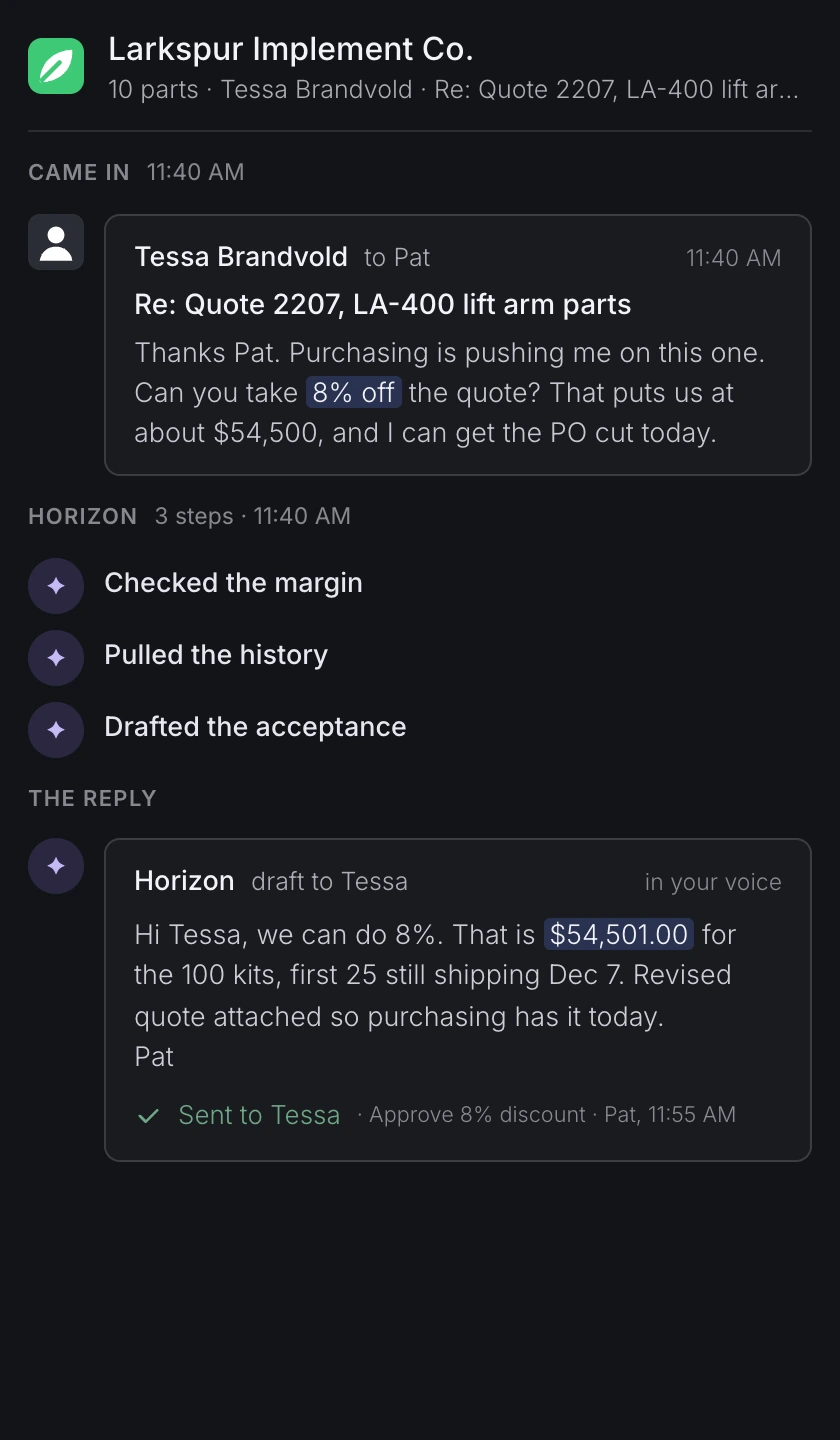
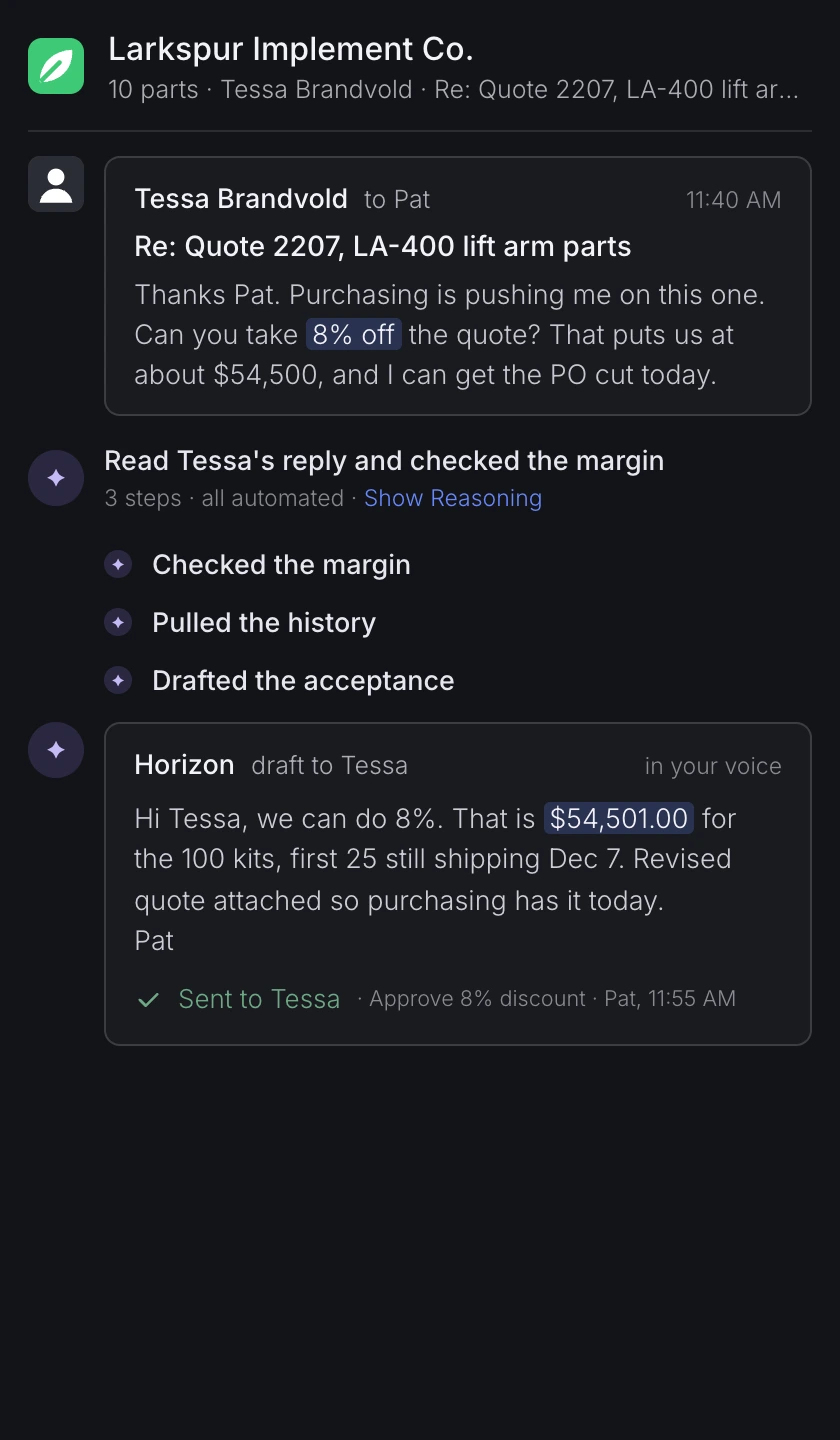
horizon task-list: the app as it is (no marketing labels), run header with Show Reasoning, the accept moment (press, Sending in 2s with Undo, Sent to)

diff --git a/horizon/task-list/index.html b/horizon/task-list/index.html
@@ -111,10 +111,20 @@ body { display: flex; justify-content: center; }
 .hz-task-list .tl-head .hzk-stages span.done { color: var(--fg); }
 .hz-task-list .tl-head .hzk-stages span.now { color: var(--link); font-weight: 600; }
 .hz-task-list .tl-body { flex: 1 1 auto; min-height: 0; display: flex; flex-direction: column; gap: 12px; overflow: hidden; }
-.hz-task-list .tl-eye { font-size: 11px; font-weight: 600; letter-spacing: .06em; text-transform: uppercase; color: var(--mute3); display: flex; align-items: center; gap: 8px; }
-.hz-task-list .tl-eye small { font-weight: 400; letter-spacing: 0; text-transform: none; font-size: 11.5px; color: var(--mute3); }
-.hz-task-list .tl-eye.live { color: var(--working); }
-.hz-task-list .tl-eye.live::after { content: ''; width: 6px; height: 6px; border-radius: 50%; background: var(--working); animation: hzk-pulse 1.2s ease-in-out infinite; }
+.hz-task-list .tl-run { display: grid; grid-template-columns: 28px minmax(0,1fr); gap: 0 10px; align-items: center; }
+.hz-task-list .tl-run .av { width: 28px; height: 28px; border-radius: 50%; display: grid; place-items: center; font-size: 12px; background: var(--spark-bg); color: var(--spark-fg); grid-row: 1 / 3; }
+.hz-task-list .tl-run b { font-size: 13.5px; font-weight: 500; color: var(--fg); }
+.hz-task-list .tl-run small { display: block; font-size: 11.5px; color: var(--mute3); }
+.hz-task-list .tl-run small a { color: var(--link); }
+.hz-task-list .tl-run.live b { color: var(--working); animation: hzk-pulse 1.2s ease-in-out infinite; }
+.hz-task-list .tl-run.live .av { animation: hzk-pulse 1.2s ease-in-out infinite; }
+.hz-task-list .tl-steps { padding-left: 38px; }
+.hz-task-list .tl-steps .hzk-step { grid-template-columns: 14px minmax(0,1fr); }
+.hz-task-list .tl-steps .hzk-step .av { width: 14px; height: 14px; font-size: 8px; margin-top: 5px; }
+.hz-task-list .hzk-send { font-size: 13px; color: var(--fg); display: flex; align-items: center; gap: 8px; margin-top: 4px; }
+.hz-task-list .hzk-send svg { width: 14px; height: 14px; fill: none; stroke: var(--working); stroke-width: 2.2; stroke-linecap: round; stroke-linejoin: round; animation: hzk-pulse 1.2s ease-in-out infinite; }
+.hz-task-list .hzk-send small { color: var(--mute3); }
+.hz-task-list .hzk-btn.small { height: 24px; padding: 0 10px; font-size: 12px; margin-left: 4px; }
 
 .hz-task-list .hzk-mail { display: grid; grid-template-columns: 28px minmax(0,1fr); gap: 10px; }
 .hz-task-list .hzk-mail .av { width: 28px; height: 28px; border-radius: 6px; overflow: hidden; background: #323335; }
@@ -219,6 +229,7 @@ body { display: flex; justify-content: center; }
   var PEOPLE = '../shared/people/';
   var SPARK = '<span class="av">✦</span>';
   var CK = '<svg viewBox="0 0 24 24"><path d="m5 12 5 5L20 7"/></svg>';
+  var CLOCK = '<svg viewBox="0 0 24 24"><circle cx="12" cy="12" r="9"/><path d="M12 7v5l3 2"/></svg>';
   var M = {
     marlin: '<svg viewBox="0 0 24 24" role="img" aria-label="Marlin Marine"><rect width="24" height="24" rx="6" fill="#3840EA"/><path fill="none" stroke="#fff" stroke-width="2" stroke-linecap="round" d="M3.5 9.5c2.1 0 2.1-2.5 4.25-2.5s2.1 2.5 4.25 2.5 2.1-2.5 4.25-2.5 2.1 2.5 4.25 2.5M3.5 16.5c2.1 0 2.1-2.5 4.25-2.5s2.1 2.5 4.25 2.5 2.1-2.5 4.25-2.5 2.1 2.5 4.25 2.5"/></svg>',
     westbrook: '<svg viewBox="0 0 24 24" role="img" aria-label="Westbrook Sensors"><rect width="24" height="24" rx="6" fill="#292932"/><circle cx="12" cy="12" r="7" fill="none" stroke="#fff" stroke-width="2"/><circle cx="12" cy="12" r="2.6" fill="#fff"/></svg>',
@@ -232,7 +243,7 @@ body { display: flex; justify-content: center; }
 
   /* ---------- the five things that came in ---------- */
   var ITEMS = [
-    { id: 'marlin', co: 'Marlin Marine', mark: M.marlin, subject: 'SO3301: can we get it sooner?', time: '7:48 AM', sentAt: '8:02 AM',
+    { id: 'marlin', runTitle: "Read the request and checked the schedule", co: 'Marlin Marine', mark: M.marlin, subject: 'SO3301: can we get it sooner?', time: '7:48 AM', sentAt: '8:02 AM',
       stage: 'so', from: 'Dev Castillo', av: photo('dev-castillo'), sub: 'SO3301: can we get it sooner?',
       body: 'Hi Pat, our boat show build moved up. Can we get <mark>SO3301 by Nov 2</mark> instead of Nov 9? Let me know what it takes.',
       steps: [['Checked the schedule', '3 of 4 lines make Nov 2 with the Saturday shift.'],
@@ -242,7 +253,7 @@ body { display: flex; justify-content: center; }
       reply: 'Dev, we can do it. Three of the four lines ship Nov 2 with a Saturday shift. The brackets are out at anodize until Nov 5, so those follow. The rush adds <mark>$980</mark>; new confirmation attached. Want me to lock it in?\nPat',
       actions: [['primary', 'Send Reply'], ['', 'Edit']],
       sentLine: 'Approve expedite fee', sentRow: 'Sales order SO3301 · ships Nov 2', sentPill: 'Ordered', sentCls: 'ordered' },
-    { id: 'westbrook', co: 'Westbrook Sensors', mark: M.westbrook, subject: 'Quote request: 118-B mounts', time: '8:15 AM', sentAt: '8:21 AM',
+    { id: 'westbrook', runTitle: "Read the RFQ and set the project up", co: 'Westbrook Sensors', mark: M.westbrook, subject: 'Quote request: 118-B mounts', time: '8:15 AM', sentAt: '8:21 AM',
       stage: 'rfq', from: 'Hana Sato', av: photo('hana-sato'), sub: 'Quote request: 118-B mounts',
       body: 'Pat, can you quote <mark>200 of the 118-B mounts</mark>? Need them by Dec 12. Thanks.',
       parts: '1 part', noatt: 'No drawing attached', readyLine: 'Asked Hana for the drawing',
@@ -252,7 +263,7 @@ body { display: flex; justify-content: center; }
       reply: 'Hi Hana, happy to. The email came through without the drawing. Can you send the <mark>118-B print</mark>, or the Rev B change if it is close to the 118-A we ran in March? I will turn it around the same day.\nPat',
       actions: [['primary', 'Send Request'], ['', 'Edit']],
       sentLine: 'Asked for drawings', sentRow: 'Waiting on Hana · the Rev B drawing', sentPill: 'Processing…', sentCls: 'processing' },
-    { id: 'kestrel', co: 'Kestrel Medical', mark: M.kestrel, subject: 'RFQ: Housing 3310, qty 50', time: '9:05 AM', sentAt: '9:14 AM',
+    { id: 'kestrel', runTitle: "Read the RFQ and priced 1 repeat part", co: 'Kestrel Medical', mark: M.kestrel, subject: 'RFQ: Housing 3310, qty 50', time: '9:05 AM', sentAt: '9:14 AM',
       stage: 'quote', from: 'Priya Natarajan', av: photo('priya-natarajan'), sub: 'RFQ: Housing 3310, qty 50',
       body: 'Hi Pat, please quote <mark>50 of the Housing 3310</mark>, same as last time. Certs as usual.',
       parts: '1 part', att: 'Housing-3310-RevC.pdf', readyLine: 'Quote 2214 ready to send',
@@ -262,7 +273,7 @@ body { display: flex; justify-content: center; }
       reply: 'Hi Priya, quote 2214 is attached: 50 pcs at <mark>$212.40</mark>, ships in 3 weeks, material certs included as always. Let me know if the quantity moves.\nPat',
       actions: [['primary', 'Send Quote'], ['', 'Review Quote']],
       sentLine: 'Quote 2214', sentRow: 'Quote 2214 sent' },
-    { id: 'harbor', co: 'Harbor Fluid Systems', mark: M.harbor, subject: 'PO 7731 for quote 2188', time: '10:20 AM', sentAt: '10:31 AM',
+    { id: 'harbor', runTitle: "Read PO 7731 against quote 2188", co: 'Harbor Fluid Systems', mark: M.harbor, subject: 'PO 7731 for quote 2188', time: '10:20 AM', sentAt: '10:31 AM',
       stage: 'po', from: 'Tom Reyes', av: photo('tom-reyes'), sub: 'PO 7731 for quote 2188',
       body: 'Pat, PO 7731 attached for the manifold plates, <mark>6 lines</mark> per your quote 2188.',
       parts: '6 parts', att: 'PO-7731.pdf',
@@ -273,7 +284,7 @@ body { display: flex; justify-content: center; }
       reply: 'Tom, thanks for the PO. One catch before I enter it: the PO calls out <mark>Rev C</mark> and we quoted Rev D (two holes moved). Can you send a revised PO, or confirm Rev D is what you want? I will hold the order so nothing runs on the wrong print.\nPat',
       actions: [['primary', 'Send Reply'], ['', 'Edit']],
       sentLine: 'Confirm the rev', sentRow: 'PO 7731 received · waiting on Tom', sentPill: 'PO Received', sentCls: 'po' },
-    { id: 'larkspur', co: 'Larkspur Implement Co.', mark: M.larkspur, subject: 'Re: Quote 2207, LA-400 lift arm parts', time: '11:40 AM', sentAt: '11:55 AM',
+    { id: 'larkspur', runTitle: "Read Tessa's reply and checked the margin", co: 'Larkspur Implement Co.', mark: M.larkspur, subject: 'Re: Quote 2207, LA-400 lift arm parts', time: '11:40 AM', sentAt: '11:55 AM',
       stage: 'quote', from: 'Tessa Brandvold', av: M.person, sub: 'Re: Quote 2207, LA-400 lift arm parts',
       body: 'Thanks Pat. Purchasing is pushing me on this one. Can you take <mark>8% off</mark> the quote? That puts us at about $54,500, and I can get the PO cut today.',
       steps: [['Checked the margin', 'At 8% off the job runs at 29.1%. Your floor is 28%, so it holds.'],
@@ -307,14 +318,14 @@ body { display: flex; justify-content: center; }
   }
   function mailHtml(it) {
     var att = it.att ? '<span class="att"><i></i>' + it.att + '</span>' : it.noatt ? '<span class="att none">' + it.noatt + '</span>' : '';
-    return '<div class="tl-eye">Came in <small>' + it.time + '</small></div><div class="hzk-mail"><span class="av">' + it.av + '</span><div class="card">' +
+    return '<div class="hzk-mail"><span class="av">' + it.av + '</span><div class="card">' +
       '<div class="hd"><b>' + it.from + '</b><span>to Pat</span><small>' + it.time + '</small></div><div class="sub">' + it.sub + '</div><div class="body">' + it.body + '</div>' + att + '</div></div>';
   }
   function stepHtml(s) { return '<div class="hzk-step">' + SPARK + '<div><div class="t">' + s[0] + '</div><div class="d">' + s[1] + '</div></div></div>'; }
   function replyHtml(it) {
     var needs = it.needs ? '<div class="hzk-ask"><i></i><b>' + it.ask + '</b><span>' + it.needs + '</span></div>' + (it.rec ? '<div class="hzk-rec">Recommend: ' + it.rec + '</div>' : '') : '';
     var acts = it.actions.map(function (a) { return '<span class="hzk-btn ' + a[0] + '">' + a[1] + '</span>'; }).join('');
-    return '<div class="tl-eye">The reply</div><div class="hzk-post" id="' + SLUG + '-post">' + SPARK + '<div class="box' + (it.needs ? ' needs' : '') + '">' +
+    return '<div class="hzk-post" id="' + SLUG + '-post">' + SPARK + '<div class="box' + (it.needs ? ' needs' : '') + '">' +
       '<div class="hd"><b>Horizon</b><span>draft to ' + it.from.split(' ')[0] + '</span><small>in your voice</small></div><div class="body">' + it.reply + '</div>' + needs +
       '<div class="hzk-actions" data-actions>' + acts + PAT + '</div></div></div>';
   }
@@ -355,17 +366,23 @@ body { display: flex; justify-content: center; }
       body.__steps = null;
     }
     function step(it, i) {
-      if (!body.__steps) { add(body, '<div class="tl-eye live" id="' + SLUG + '-eye">Horizon</div>'); body.__steps = add(body, '<div class="tl-steps"></div>'); }
+      if (!body.__steps) { add(body, '<div class="tl-run live" id="' + SLUG + '-eye"><span class="av">✦</span><b>Working on it</b></div>'); body.__steps = add(body, '<div class="tl-steps"></div>'); }
       add(body.__steps, stepHtml(it.steps[i]));
     }
     function reply(it) {
-      var eye = $('eye'); if (eye) { eye.classList.remove('live'); eye.innerHTML = 'Horizon <small>3 steps · ' + it.time + '</small>'; }
+      var eye = $('eye'); if (eye) { eye.classList.remove('live'); eye.innerHTML = '<span class="av">✦</span><b>' + it.runTitle + '</b><small>3 steps · all automated · <a>Show Reasoning</a></small>'; }
       add(body, replyHtml(it));
       if (it.needs) { setRow(it, it.ask, 'Needs Review', 'review', false); setNeeds(needsN + 1); }
       else setRow(it, it.readyLine || 'Quote ready to send', 'Ready', 'ready', false);
     }
     function press(it) {
       var b = body.querySelector('[data-actions] .hzk-btn.primary'); if (b) b.classList.add('is-pressed');
+    }
+    function sending(it) {
+      var acts = body.querySelector('[data-actions]'); if (!acts) return;
+      var wrap = document.createElement('div'); wrap.innerHTML = '<div class="hzk-send">' + CLOCK + 'Sending to ' + it.from.split(' ')[0] + ' in 2s<small>· ' + it.sentLine + '</small><span class="hzk-btn small">Undo</span></div>';
+      var el = wrap.firstChild; if (!instant) el.classList.add('hzk-in'); acts.parentNode.replaceChild(el, acts); el.setAttribute('data-actions', '');
+      setRow(it, 'Sending to ' + it.from.split(' ')[0], 'Ready', 'ready', true);
     }
     function sent(it) {
       var acts = body.querySelector('[data-actions]');
@@ -390,20 +407,21 @@ body { display: flex; justify-content: center; }
     }
 
     /* ---------- timeline ---------- */
-    var EV = [], DUR = 41;
+    var EV = [], DUR = 44;
     function at(t, fn) { EV.push({ t: t, fn: fn }); }
     at(0, function () { resolved(); });
     at(2.6, function () { listBody.classList.add('is-out'); body.classList.add('is-out'); });
     at(3.0, function () { clearAll(); });
     ITEMS.forEach(function (it, k) {
-      var T = 3.2 + k * 7.0;
+      var T = 3.2 + k * 7.5;
       at(T, function () { arrive(it); });
       at(T + 1.0, function () { step(it, 0); });
       at(T + 1.9, function () { step(it, 1); });
       at(T + 2.8, function () { step(it, 2); });
       at(T + 3.7, function () { reply(it); });
-      at(T + 5.4, function () { press(it); });
-      at(T + 5.8, function () { sent(it); });
+      at(T + 5.2, function () { press(it); });
+      at(T + 5.45, function () { sending(it); });
+      at(T + 6.9, function () { sent(it); });
     });
     EV.sort(function (a, b) { return a.t - b.t; });
 

diff --git a/horizon/task-list/fragment.html b/horizon/task-list/fragment.html
@@ -83,10 +83,20 @@
 .hz-task-list .tl-head .hzk-stages span.done { color: var(--fg); }
 .hz-task-list .tl-head .hzk-stages span.now { color: var(--link); font-weight: 600; }
 .hz-task-list .tl-body { flex: 1 1 auto; min-height: 0; display: flex; flex-direction: column; gap: 12px; overflow: hidden; }
-.hz-task-list .tl-eye { font-size: 11px; font-weight: 600; letter-spacing: .06em; text-transform: uppercase; color: var(--mute3); display: flex; align-items: center; gap: 8px; }
-.hz-task-list .tl-eye small { font-weight: 400; letter-spacing: 0; text-transform: none; font-size: 11.5px; color: var(--mute3); }
-.hz-task-list .tl-eye.live { color: var(--working); }
-.hz-task-list .tl-eye.live::after { content: ''; width: 6px; height: 6px; border-radius: 50%; background: var(--working); animation: hzk-pulse 1.2s ease-in-out infinite; }
+.hz-task-list .tl-run { display: grid; grid-template-columns: 28px minmax(0,1fr); gap: 0 10px; align-items: center; }
+.hz-task-list .tl-run .av { width: 28px; height: 28px; border-radius: 50%; display: grid; place-items: center; font-size: 12px; background: var(--spark-bg); color: var(--spark-fg); grid-row: 1 / 3; }
+.hz-task-list .tl-run b { font-size: 13.5px; font-weight: 500; color: var(--fg); }
+.hz-task-list .tl-run small { display: block; font-size: 11.5px; color: var(--mute3); }
+.hz-task-list .tl-run small a { color: var(--link); }
+.hz-task-list .tl-run.live b { color: var(--working); animation: hzk-pulse 1.2s ease-in-out infinite; }
+.hz-task-list .tl-run.live .av { animation: hzk-pulse 1.2s ease-in-out infinite; }
+.hz-task-list .tl-steps { padding-left: 38px; }
+.hz-task-list .tl-steps .hzk-step { grid-template-columns: 14px minmax(0,1fr); }
+.hz-task-list .tl-steps .hzk-step .av { width: 14px; height: 14px; font-size: 8px; margin-top: 5px; }
+.hz-task-list .hzk-send { font-size: 13px; color: var(--fg); display: flex; align-items: center; gap: 8px; margin-top: 4px; }
+.hz-task-list .hzk-send svg { width: 14px; height: 14px; fill: none; stroke: var(--working); stroke-width: 2.2; stroke-linecap: round; stroke-linejoin: round; animation: hzk-pulse 1.2s ease-in-out infinite; }
+.hz-task-list .hzk-send small { color: var(--mute3); }
+.hz-task-list .hzk-btn.small { height: 24px; padding: 0 10px; font-size: 12px; margin-left: 4px; }
 
 .hz-task-list .hzk-mail { display: grid; grid-template-columns: 28px minmax(0,1fr); gap: 10px; }
 .hz-task-list .hzk-mail .av { width: 28px; height: 28px; border-radius: 6px; overflow: hidden; background: #323335; }
@@ -188,6 +198,7 @@
   var PEOPLE = '../shared/people/';
   var SPARK = '<span class="av">✦</span>';
   var CK = '<svg viewBox="0 0 24 24"><path d="m5 12 5 5L20 7"/></svg>';
+  var CLOCK = '<svg viewBox="0 0 24 24"><circle cx="12" cy="12" r="9"/><path d="M12 7v5l3 2"/></svg>';
   var M = {
     marlin: '<svg viewBox="0 0 24 24" role="img" aria-label="Marlin Marine"><rect width="24" height="24" rx="6" fill="#3840EA"/><path fill="none" stroke="#fff" stroke-width="2" stroke-linecap="round" d="M3.5 9.5c2.1 0 2.1-2.5 4.25-2.5s2.1 2.5 4.25 2.5 2.1-2.5 4.25-2.5 2.1 2.5 4.25 2.5M3.5 16.5c2.1 0 2.1-2.5 4.25-2.5s2.1 2.5 4.25 2.5 2.1-2.5 4.25-2.5 2.1 2.5 4.25 2.5"/></svg>',
     westbrook: '<svg viewBox="0 0 24 24" role="img" aria-label="Westbrook Sensors"><rect width="24" height="24" rx="6" fill="#292932"/><circle cx="12" cy="12" r="7" fill="none" stroke="#fff" stroke-width="2"/><circle cx="12" cy="12" r="2.6" fill="#fff"/></svg>',
@@ -201,7 +212,7 @@
 
   /* ---------- the five things that came in ---------- */
   var ITEMS = [
-    { id: 'marlin', co: 'Marlin Marine', mark: M.marlin, subject: 'SO3301: can we get it sooner?', time: '7:48 AM', sentAt: '8:02 AM',
+    { id: 'marlin', runTitle: "Read the request and checked the schedule", co: 'Marlin Marine', mark: M.marlin, subject: 'SO3301: can we get it sooner?', time: '7:48 AM', sentAt: '8:02 AM',
       stage: 'so', from: 'Dev Castillo', av: photo('dev-castillo'), sub: 'SO3301: can we get it sooner?',
       body: 'Hi Pat, our boat show build moved up. Can we get <mark>SO3301 by Nov 2</mark> instead of Nov 9? Let me know what it takes.',
       steps: [['Checked the schedule', '3 of 4 lines make Nov 2 with the Saturday shift.'],
@@ -211,7 +222,7 @@
       reply: 'Dev, we can do it. Three of the four lines ship Nov 2 with a Saturday shift. The brackets are out at anodize until Nov 5, so those follow. The rush adds <mark>$980</mark>; new confirmation attached. Want me to lock it in?\nPat',
       actions: [['primary', 'Send Reply'], ['', 'Edit']],
       sentLine: 'Approve expedite fee', sentRow: 'Sales order SO3301 · ships Nov 2', sentPill: 'Ordered', sentCls: 'ordered' },
-    { id: 'westbrook', co: 'Westbrook Sensors', mark: M.westbrook, subject: 'Quote request: 118-B mounts', time: '8:15 AM', sentAt: '8:21 AM',
+    { id: 'westbrook', runTitle: "Read the RFQ and set the project up", co: 'Westbrook Sensors', mark: M.westbrook, subject: 'Quote request: 118-B mounts', time: '8:15 AM', sentAt: '8:21 AM',
       stage: 'rfq', from: 'Hana Sato', av: photo('hana-sato'), sub: 'Quote request: 118-B mounts',
       body: 'Pat, can you quote <mark>200 of the 118-B mounts</mark>? Need them by Dec 12. Thanks.',
       parts: '1 part', noatt: 'No drawing attached', readyLine: 'Asked Hana for the drawing',
@@ -221,7 +232,7 @@
       reply: 'Hi Hana, happy to. The email came through without the drawing. Can you send the <mark>118-B print</mark>, or the Rev B change if it is close to the 118-A we ran in March? I will turn it around the same day.\nPat',
       actions: [['primary', 'Send Request'], ['', 'Edit']],
       sentLine: 'Asked for drawings', sentRow: 'Waiting on Hana · the Rev B drawing', sentPill: 'Processing…', sentCls: 'processing' },
-    { id: 'kestrel', co: 'Kestrel Medical', mark: M.kestrel, subject: 'RFQ: Housing 3310, qty 50', time: '9:05 AM', sentAt: '9:14 AM',
+    { id: 'kestrel', runTitle: "Read the RFQ and priced 1 repeat part", co: 'Kestrel Medical', mark: M.kestrel, subject: 'RFQ: Housing 3310, qty 50', time: '9:05 AM', sentAt: '9:14 AM',
       stage: 'quote', from: 'Priya Natarajan', av: photo('priya-natarajan'), sub: 'RFQ: Housing 3310, qty 50',
       body: 'Hi Pat, please quote <mark>50 of the Housing 3310</mark>, same as last time. Certs as usual.',
       parts: '1 part', att: 'Housing-3310-RevC.pdf', readyLine: 'Quote 2214 ready to send',
@@ -231,7 +242,7 @@
       reply: 'Hi Priya, quote 2214 is attached: 50 pcs at <mark>$212.40</mark>, ships in 3 weeks, material certs included as always. Let me know if the quantity moves.\nPat',
       actions: [['primary', 'Send Quote'], ['', 'Review Quote']],
       sentLine: 'Quote 2214', sentRow: 'Quote 2214 sent' },
-    { id: 'harbor', co: 'Harbor Fluid Systems', mark: M.harbor, subject: 'PO 7731 for quote 2188', time: '10:20 AM', sentAt: '10:31 AM',
+    { id: 'harbor', runTitle: "Read PO 7731 against quote 2188", co: 'Harbor Fluid Systems', mark: M.harbor, subject: 'PO 7731 for quote 2188', time: '10:20 AM', sentAt: '10:31 AM',
       stage: 'po', from: 'Tom Reyes', av: photo('tom-reyes'), sub: 'PO 7731 for quote 2188',
       body: 'Pat, PO 7731 attached for the manifold plates, <mark>6 lines</mark> per your quote 2188.',
       parts: '6 parts', att: 'PO-7731.pdf',
@@ -242,7 +253,7 @@
       reply: 'Tom, thanks for the PO. One catch before I enter it: the PO calls out <mark>Rev C</mark> and we quoted Rev D (two holes moved). Can you send a revised PO, or confirm Rev D is what you want? I will hold the order so nothing runs on the wrong print.\nPat',
       actions: [['primary', 'Send Reply'], ['', 'Edit']],
       sentLine: 'Confirm the rev', sentRow: 'PO 7731 received · waiting on Tom', sentPill: 'PO Received', sentCls: 'po' },
-    { id: 'larkspur', co: 'Larkspur Implement Co.', mark: M.larkspur, subject: 'Re: Quote 2207, LA-400 lift arm parts', time: '11:40 AM', sentAt: '11:55 AM',
+    { id: 'larkspur', runTitle: "Read Tessa's reply and checked the margin", co: 'Larkspur Implement Co.', mark: M.larkspur, subject: 'Re: Quote 2207, LA-400 lift arm parts', time: '11:40 AM', sentAt: '11:55 AM',
       stage: 'quote', from: 'Tessa Brandvold', av: M.person, sub: 'Re: Quote 2207, LA-400 lift arm parts',
       body: 'Thanks Pat. Purchasing is pushing me on this one. Can you take <mark>8% off</mark> the quote? That puts us at about $54,500, and I can get the PO cut today.',
       steps: [['Checked the margin', 'At 8% off the job runs at 29.1%. Your floor is 28%, so it holds.'],
@@ -276,14 +287,14 @@
   }
   function mailHtml(it) {
     var att = it.att ? '<span class="att"><i></i>' + it.att + '</span>' : it.noatt ? '<span class="att none">' + it.noatt + '</span>' : '';
-    return '<div class="tl-eye">Came in <small>' + it.time + '</small></div><div class="hzk-mail"><span class="av">' + it.av + '</span><div class="card">' +
+    return '<div class="hzk-mail"><span class="av">' + it.av + '</span><div class="card">' +
       '<div class="hd"><b>' + it.from + '</b><span>to Pat</span><small>' + it.time + '</small></div><div class="sub">' + it.sub + '</div><div class="body">' + it.body + '</div>' + att + '</div></div>';
   }
   function stepHtml(s) { return '<div class="hzk-step">' + SPARK + '<div><div class="t">' + s[0] + '</div><div class="d">' + s[1] + '</div></div></div>'; }
   function replyHtml(it) {
     var needs = it.needs ? '<div class="hzk-ask"><i></i><b>' + it.ask + '</b><span>' + it.needs + '</span></div>' + (it.rec ? '<div class="hzk-rec">Recommend: ' + it.rec + '</div>' : '') : '';
     var acts = it.actions.map(function (a) { return '<span class="hzk-btn ' + a[0] + '">' + a[1] + '</span>'; }).join('');
-    return '<div class="tl-eye">The reply</div><div class="hzk-post" id="' + SLUG + '-post">' + SPARK + '<div class="box' + (it.needs ? ' needs' : '') + '">' +
+    return '<div class="hzk-post" id="' + SLUG + '-post">' + SPARK + '<div class="box' + (it.needs ? ' needs' : '') + '">' +
       '<div class="hd"><b>Horizon</b><span>draft to ' + it.from.split(' ')[0] + '</span><small>in your voice</small></div><div class="body">' + it.reply + '</div>' + needs +
       '<div class="hzk-actions" data-actions>' + acts + PAT + '</div></div></div>';
   }
@@ -324,17 +335,23 @@
       body.__steps = null;
     }
     function step(it, i) {
-      if (!body.__steps) { add(body, '<div class="tl-eye live" id="' + SLUG + '-eye">Horizon</div>'); body.__steps = add(body, '<div class="tl-steps"></div>'); }
+      if (!body.__steps) { add(body, '<div class="tl-run live" id="' + SLUG + '-eye"><span class="av">✦</span><b>Working on it</b></div>'); body.__steps = add(body, '<div class="tl-steps"></div>'); }
       add(body.__steps, stepHtml(it.steps[i]));
     }
     function reply(it) {
-      var eye = $('eye'); if (eye) { eye.classList.remove('live'); eye.innerHTML = 'Horizon <small>3 steps · ' + it.time + '</small>'; }
+      var eye = $('eye'); if (eye) { eye.classList.remove('live'); eye.innerHTML = '<span class="av">✦</span><b>' + it.runTitle + '</b><small>3 steps · all automated · <a>Show Reasoning</a></small>'; }
       add(body, replyHtml(it));
       if (it.needs) { setRow(it, it.ask, 'Needs Review', 'review', false); setNeeds(needsN + 1); }
       else setRow(it, it.readyLine || 'Quote ready to send', 'Ready', 'ready', false);
     }
     function press(it) {
       var b = body.querySelector('[data-actions] .hzk-btn.primary'); if (b) b.classList.add('is-pressed');
+    }
+    function sending(it) {
+      var acts = body.querySelector('[data-actions]'); if (!acts) return;
+      var wrap = document.createElement('div'); wrap.innerHTML = '<div class="hzk-send">' + CLOCK + 'Sending to ' + it.from.split(' ')[0] + ' in 2s<small>· ' + it.sentLine + '</small><span class="hzk-btn small">Undo</span></div>';
+      var el = wrap.firstChild; if (!instant) el.classList.add('hzk-in'); acts.parentNode.replaceChild(el, acts); el.setAttribute('data-actions', '');
+      setRow(it, 'Sending to ' + it.from.split(' ')[0], 'Ready', 'ready', true);
     }
     function sent(it) {
       var acts = body.querySelector('[data-actions]');
@@ -359,20 +376,21 @@
     }
 
     /* ---------- timeline ---------- */
-    var EV = [], DUR = 41;
+    var EV = [], DUR = 44;
     function at(t, fn) { EV.push({ t: t, fn: fn }); }
     at(0, function () { resolved(); });
     at(2.6, function () { listBody.classList.add('is-out'); body.classList.add('is-out'); });
     at(3.0, function () { clearAll(); });
     ITEMS.forEach(function (it, k) {
-      var T = 3.2 + k * 7.0;
+      var T = 3.2 + k * 7.5;
       at(T, function () { arrive(it); });
       at(T + 1.0, function () { step(it, 0); });
       at(T + 1.9, function () { step(it, 1); });
       at(T + 2.8, function () { step(it, 2); });
       at(T + 3.7, function () { reply(it); });
-      at(T + 5.4, function () { press(it); });
-      at(T + 5.8, function () { sent(it); });
+      at(T + 5.2, function () { press(it); });
+      at(T + 5.45, function () { sending(it); });
+      at(T + 6.9, function () { sent(it); });
     });
     EV.sort(function (a, b) { return a.t - b.t; });
 
